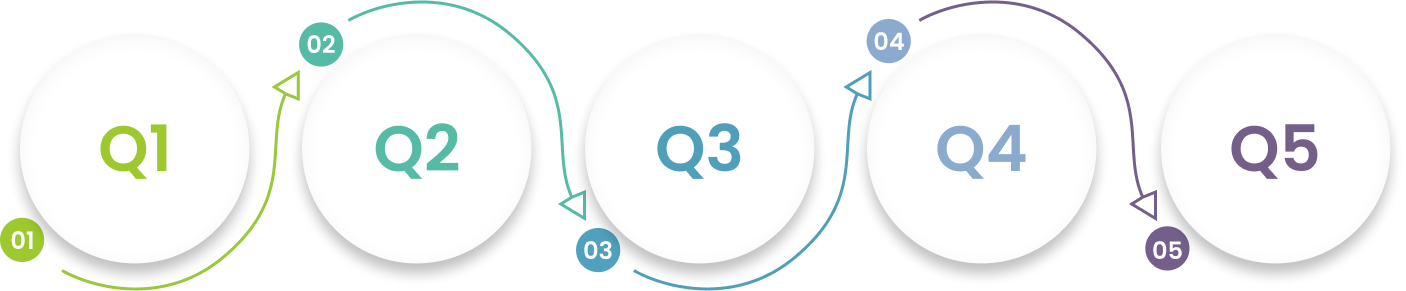
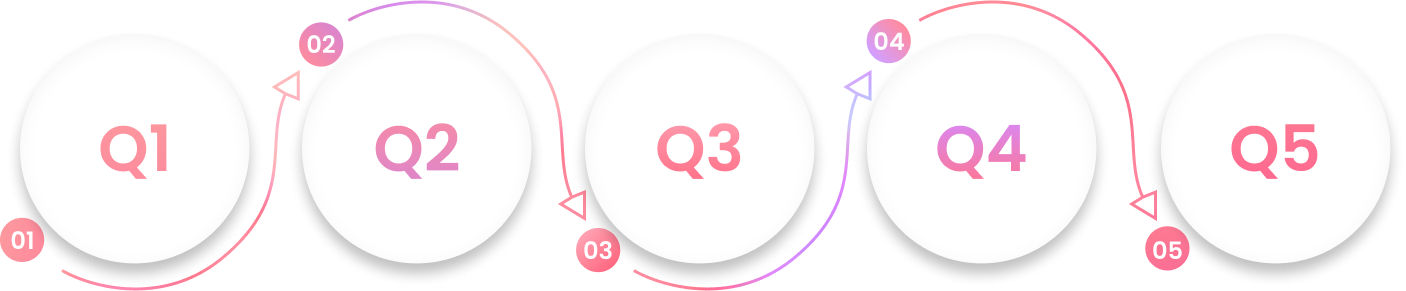
roadmap change

diff --git a/styles/globals.css b/styles/globals.css
@@ -1268,19 +1268,29 @@ div.product-details-content-inside {
   padding: 0px 12px;
 }
 .roadmap-1 h5 {
-  color: #9dc92e;
+  background: -webkit-linear-gradient(#fd969e, #fe8d9e);
+  -webkit-background-clip: text;
+  -webkit-text-fill-color: transparent;
 }
 .roadmap-2 h5 {
-  color: #55bba5;
+  background: -webkit-linear-gradient(#f38aad, #e186c7);
+  -webkit-background-clip: text;
+  -webkit-text-fill-color: transparent;
 }
 .roadmap-3 h5 {
-  color: #50a1bc;
+  background: -webkit-linear-gradient(#f38aad, #f9799f);
+  -webkit-background-clip: text;
+  -webkit-text-fill-color: transparent;
 }
 .roadmap-4 h5 {
-  color: #8aaace;
+  background: -webkit-linear-gradient(#dd86e9, #f9799f);
+  -webkit-background-clip: text;
+  -webkit-text-fill-color: transparent;
 }
 .roadmap-5 h5 {
-  color: #745f8a;
+  background: -webkit-linear-gradient(#fd969e, #fe8d9e);
+  -webkit-background-clip: text;
+  -webkit-text-fill-color: transparent;
 }
 /* about page end */
 
